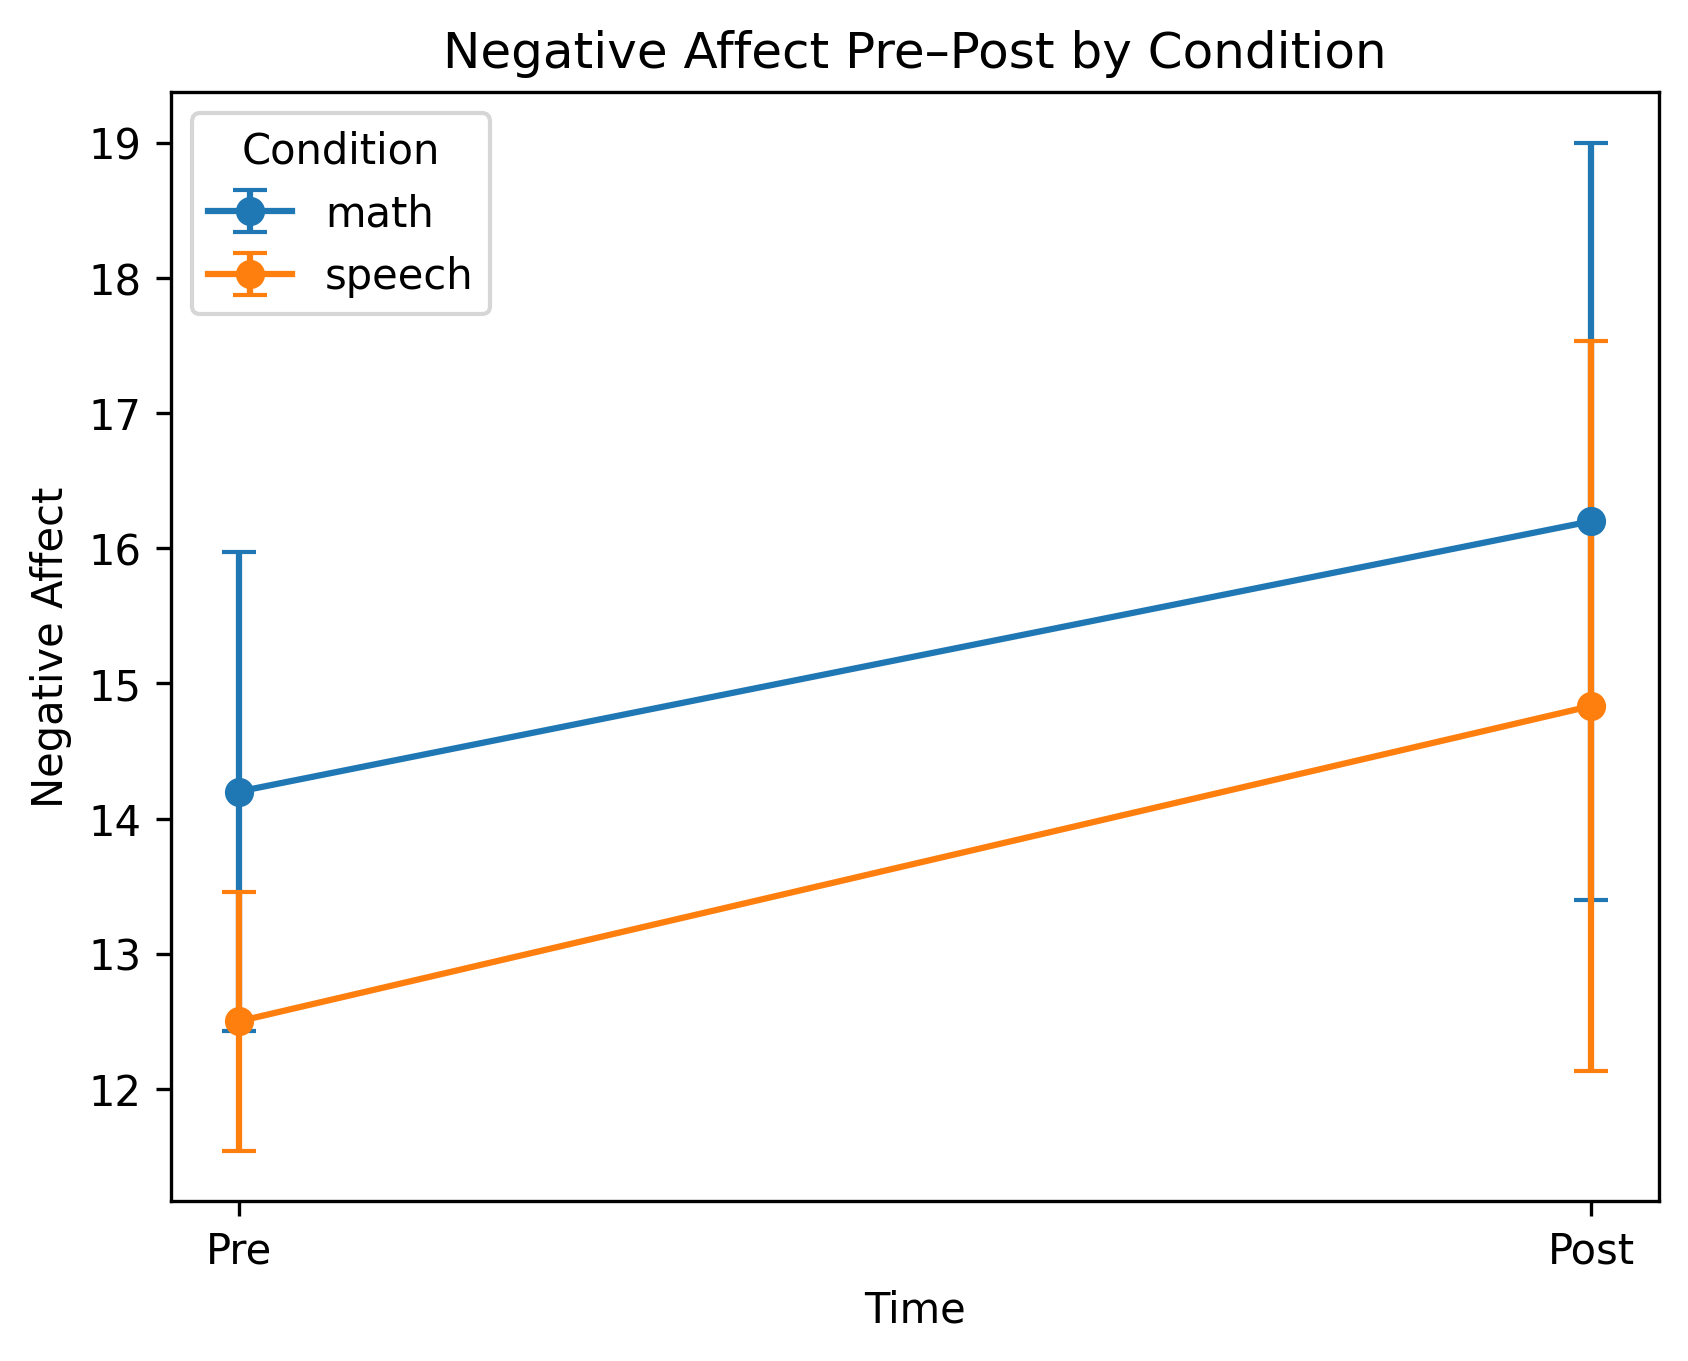
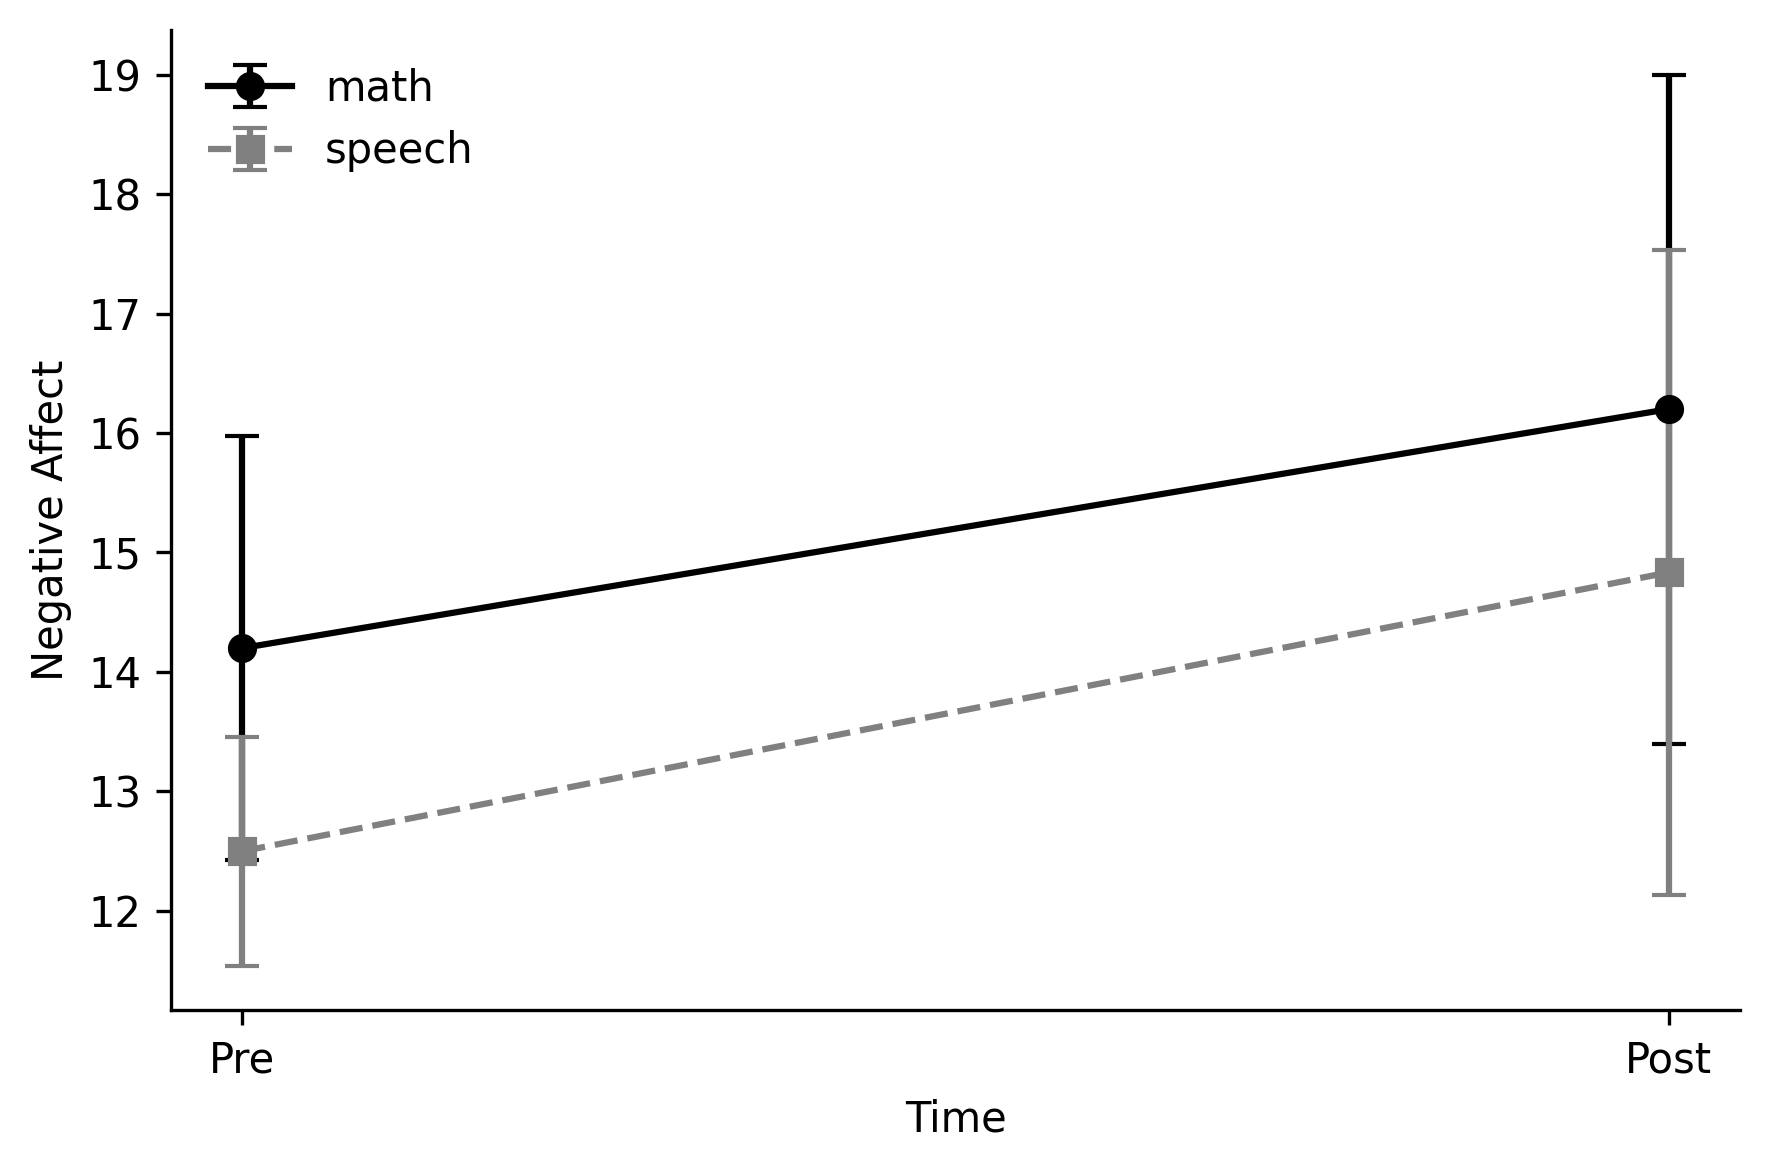
APA style plots

Changed region(s): [[0.0, 0.0308, 0.9858, 0.9231], [0.4929, 0.9231, 0.5853, 0.9846]]

diff --git a/PANAS-Analysis/PANAS_Analysis.py b/PANAS-Analysis/PANAS_Analysis.py
@@ -185,7 +185,7 @@ print("Cohen’s d (ΔPA):", cohens_d(math["ΔPA"].dropna(), speech["ΔPA"].drop
 # 10. PLOTS
 # ==================================================
 
-def plot_pre_post(long_df, ylabel, title, filename):
+def plot_pre_post(long_df, ylabel, filename):
     summary = (
         long_df
         .groupby(["Group", "Time"], observed=True)["Score"]
@@ -202,7 +202,13 @@ def plot_pre_post(long_df, ylabel, title, filename):
 
     summary = summary.sort_values("Time")
 
-    fig, ax = plt.subplots()
+    fig, ax = plt.subplots(figsize=(6, 4), facecolor="white")
+
+    # APA-style lines (black & gray, different markers/linestyles)
+    styles = {
+        "math":   dict(color="black", marker="o", linestyle="-"),
+        "speech": dict(color="gray",  marker="s", linestyle="--")
+    }
 
     for g in summary["Group"].unique():
         d = summary[summary["Group"] == g]
@@ -210,15 +216,24 @@ def plot_pre_post(long_df, ylabel, title, filename):
             d["Time"],
             d["mean"],
             yerr=d["sem"],
-            marker="o",
             capsize=4,
-            label=g
+            label=g,
+            **styles.get(g, {})
         )
-
+    # Labels (keep, APA)
     ax.set_xlabel("Time")
     ax.set_ylabel(ylabel)
-    ax.set_title(title)
-    ax.legend(title="Condition")
+    
+    # Clean look (APA)
+    ax.spines["top"].set_visible(False)
+    ax.spines["right"].set_visible(False)
+    ax.grid(False)
+
+    # Legend (no title)
+    ax.legend(frameon=False)
+
+    # Save
+    plt.tight_layout()
 
     # ✅ SAVE FIGURE
     plt.savefig(filename, dpi=300, bbox_inches="tight")
@@ -226,13 +241,11 @@ def plot_pre_post(long_df, ylabel, title, filename):
 
 
 plot_pre_post(na_long, 
-              "Negative Affect", 
-              "Negative Affect Pre–Post by Condition", 
+              "Negative Affect",
               FIG_DIR / "na_pre_post_by_condition.png")
 
 plot_pre_post(pa_long, 
               "Positive Affect", 
-              "Positive Affect Pre–Post by Condition", 
               FIG_DIR / "pa_pre_post_by_condition.png")
 
 # ==================================================
